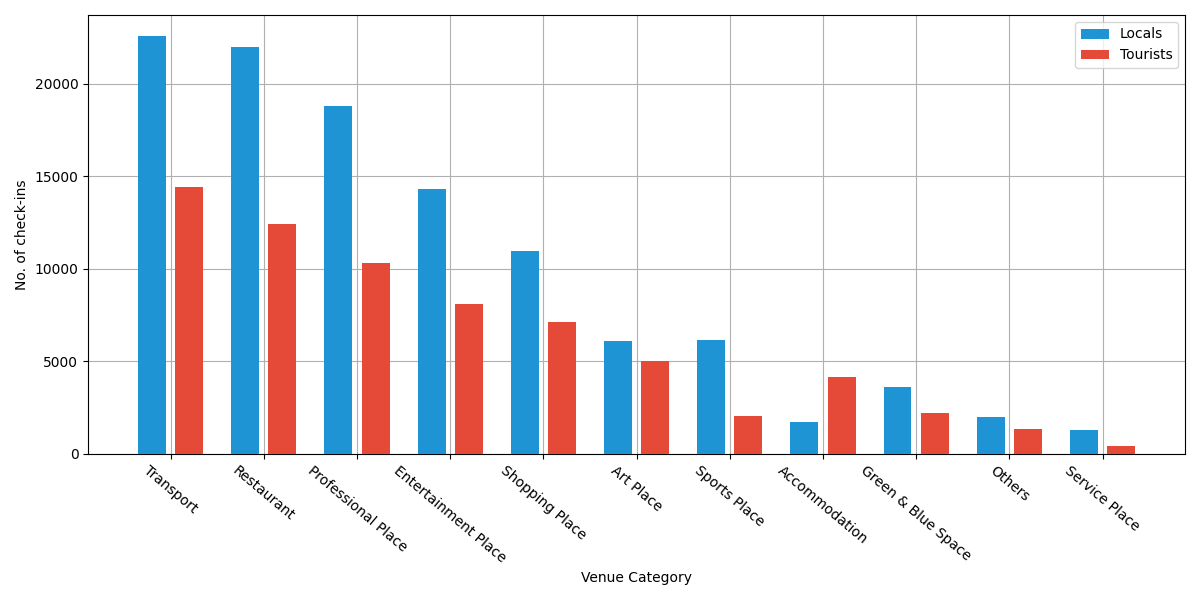
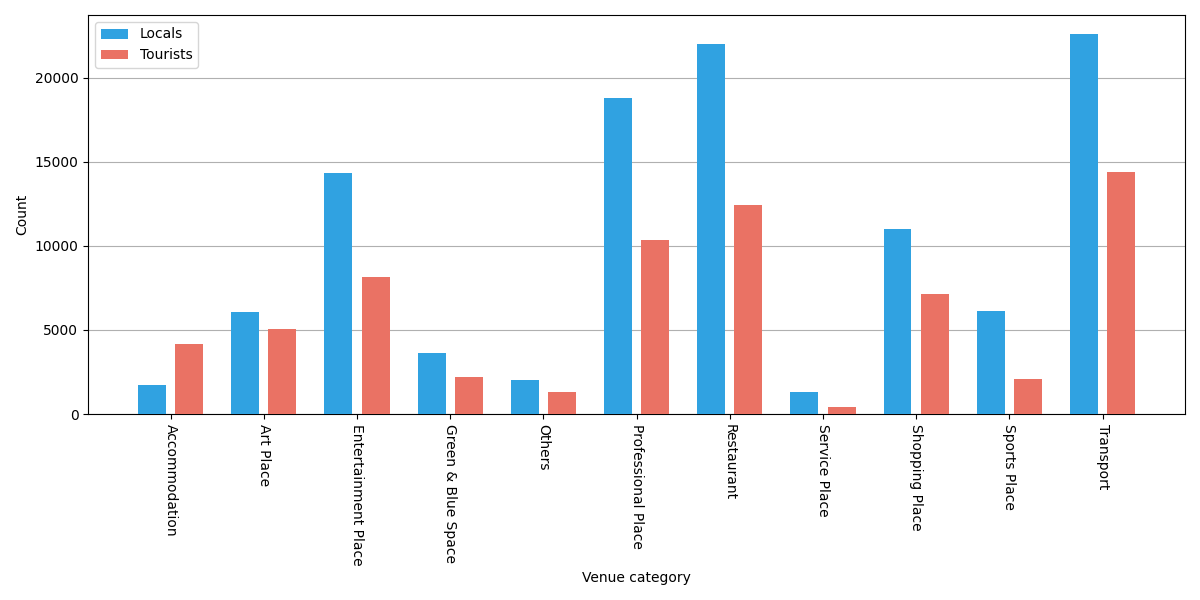
Updates from Overleaf

diff --git a/main.tex b/main.tex
@@ -93,9 +93,9 @@ The trajectory is the chronological representation of people’s movements. Effo
 
 To bridge the gap, this study aims to construct the semantic trajectories of locals and tourists in Greater London with Foursquare check-ins and Flickr tags. Greater London is an English-speaking city that attracts numerous tourists every year. Moreover, there are lots of Foursquare and Flickr users sharing check-ins and photos in Greater London, which lays the foundation for semantic trajectory construction. This study examines two research questions:
 
-\textbf{RQ1: What’s the functionality of the place based on the visit number of locals and tourists?}
+\textbf{RQ1: Which areas are more popular among locals and tourists at different time spans?}
 
-Given the varying functionalities of different places, they tend to attract diverse populations with specific visiting objectives. To investigate the distribution of places that cater to distinct population groups, it is imperative to assess the degree of mixture between locals and tourists in these places \citep{li_analyzing_2018}. This evaluation can identify places that appeal to both locals and tourists, as well as those that primarily attract one group or the other. By combining this evaluation with the semantic attributes of places, the visiting objectives of locals and tourists can also be revealed for different place types.
+Given the varying functionalities of different areas, they tend to attract diverse populations with specific visiting objectives. To investigate the distribution of areas that cater to distinct population groups, it is imperative to assess the degree of mixture between locals and tourists in these places \citep{li_analyzing_2018}. This evaluation can identify areas that mainly appeal to locals or tourists. By combining this evaluation with local knowledge, the visiting objectives of locals and tourists can also be revealed.
 
 \textbf{RQ2: How do locals and tourists perceive the city along their semantic trajectories at different time spans?}
 
@@ -244,17 +244,16 @@ City perception can be investigated at different scales, such as grid-based or \
 % ============================================ ||| Study Area and Data Preprocessing ||| ============================================
 \section{Study Area and Data Preprocessing}
 \subsection{Study Area}
-The study area is located in Greater London (Figure~\ref{fig:london}). As an English-speaking
+The study area is located in Greater London in Great Britain (Figure~\ref{fig:study_area}). As an English-speaking
 city, Greater London covers an area of 1,572 \(km^2\) and has a population of 9.5 million inhabitants. According to tourism statistics of City of London, before the Covid-19 pandemic, Greater London attracted approximately 21 million visitors annually from across the world. Of these, 19.7 million visitors were day trippers, while 1.3 million visitors stayed overnight. The high volume of visitors makes Greater London an ideal location for studying the city perception of both locals and tourists. The boundary of Greater London used in this study was obtained from \href{https://data.london.gov.uk/dataset/statistical-gis-boundary-files-london}{LONDON DATASTORE} website.
 
 \begin{figure}[h!]
 \centering
-\includegraphics[width=1\textwidth]{figures/london.png}
-\caption{\label{fig:london}London boroughs.}
+\includegraphics[width=1\textwidth]{figures/study_area.png}
+\caption{\label{fig:study_area}Study area.}
 \end{figure}
 
 \subsection{Data Preprocssing}
-
 Foursquare data and Flickr data in Greater London from April 3, 2012 to September 16, 2013 were collected with Python 3.9.12 to investigate how people move around the city and how they perceive it.
 
 This study examines the city perceptions of locals and tourists, during daytime and nighttime, as well as on weekdays and weekends. Therefore, it is crucial to differentiate between these two population groups across different time spans. To distinguish between locals and tourists, a combination of user profiles and time intervals was utilized for identification. The user profile served as the primary criterion, with individuals whose hometown or city of residence listed as London in their profiles categorized as locals. In cases where the user profile was unavailable, the time interval between the user's initial and final Foursquare or Flickr posts in Greater London was employed. Users with a time interval exceeding 30 days were classified as locals. Regarding time spans, daytime is defined as 6 am to 6 pm, while the remaining hours are considered nighttime. Weekdays encompass Monday to Friday, while the weekend comprises Saturday and Sunday.
@@ -330,10 +329,10 @@ Time & Population Group & No. of Users & No. of Check-ins \\
 \begin{figure}[h!]
 \centering
 \includegraphics[width=0.7\textwidth]{figures/foursquare_distribution.png}
-\caption{\label{fig:foursquare_distribution}Distribution of Foursquare check-ins of locals (blue) and tourists (red).}
+\caption{\label{fig:foursquare_distribution}Distribution of Foursquare check-ins of locals and tourists.}
 \end{figure}
 
-For venue categories, Foursquare categorizes the place types into ten categories, namely (1) Travel \& Transport, (2) Food, (3) Professional \& Other Places, (4) Outdoors \& Recreation, (5) Shop \& Service, (6) Nightlife Spot, (7) Arts \& Entertainment, (8) College \& University, (9) Event, (10) Residence. Category 9 Event was not contained in the check-ins used in this study, and Category 10 Residence was removed to protect the privacy of users. The number of check-ins for each Foursquare venue category is shown in Table~\ref{tab:foursquare_category}. There are several combined categories in the Foursquare category system, such as Professional \& Other Places and Outdoors \& Recreation, which makes it ambiguous to determine the visiting purposes of individual check-ins. To overcome this limitation and investigate place properties more precisely, this study divided venues into 11 categories by separating the combined categories and defining new ones based on the third-level categories in the Foursquare category system. The number of check-ins for modified venue categories is presented in Table~\ref{tab:modified_category}. In terms of the category distribution among locals and tourists, the categories Transport and Restaurant were the most prevalent among both locals and tourists. However, certain categories showed a higher prevalence among a specific group, for instance, Shopping Place, Art Place, and Accommodation were more welcomed by tourists, whereas Sports Place received a greater number of check-ins from locals (Figure~\ref{fig:foursquare_category_percent}).
+For venue categories, Foursquare categorizes the place types into ten categories, namely (1) Travel \& Transport, (2) Food, (3) Professional \& Other Places, (4) Outdoors \& Recreation, (5) Shop \& Service, (6) Nightlife Spot, (7) Arts \& Entertainment, (8) College \& University, (9) Event, (10) Residence. Category 9 Event was not contained in the check-ins used in this study, and Category 10 Residence was removed to protect the privacy of users. The number of check-ins for each Foursquare venue category is shown in Table~\ref{tab:foursquare_category}. There are several combined categories in the Foursquare category system, such as Professional \& Other Places and Outdoors \& Recreation, which makes it ambiguous to determine the visiting purposes of individual check-ins. To overcome this limitation and investigate place properties more precisely, this study divided venues into 11 categories by separating the combined categories and defining new ones based on the third-level categories in the Foursquare category system. The number of check-ins for modified venue categories is presented in Table~\ref{tab:modified_category}. In terms of the category distribution among locals and tourists, the categories Transport and Restaurant were the most prevalent among both locals and tourists. However, certain categories showed a higher prevalence among a specific group, for instance, Shopping Place, Art Place, and Accommodation were more welcomed by tourists, whereas Sports Place received a greater number of check-ins from locals (Figure~\ref{fig:foursquare_category}).
 
 \begin{table}[h!]
 \centering
@@ -374,16 +373,11 @@ No. & Modified Venue Category & No. of Check-ins & Foursquare Venue Category
 \end{adjustbox}
 \end{table}
 
-% \begin{figure}
-% \centering
-% \includegraphics[width=1\textwidth]{figures/foursquare_category.png}
-% \caption{\label{fig:foursquare_category}Venue categories visited by locals and tourists.}
-% \end{figure}
 
 \begin{figure}[h!]
 \centering
-\includegraphics[width=1\textwidth]{figures/foursquare_category_percent.png}
-\caption{\label{fig:foursquare_category_percent}Percent of venue categories visited by locals and tourists.}
+\includegraphics[width=1\textwidth]{figures/foursquare_category.png}
+\caption{\label{fig:foursquare_category}Number of venue categories visited by locals and tourists.}
 \end{figure}
 
 
@@ -461,7 +455,7 @@ Time & Population Group & No. of Users & No. of Photos & No. of Tags \\
 \begin{figure}[h!]
 \centering
 \includegraphics[width=0.7\textwidth]{figures/flickr_distribution.png}
-\caption{\label{fig:flickr_distribution}Distribution of Flickr photos of locals (blue) and tourists (red).}
+\caption{\label{fig:flickr_distribution}Distribution of Flickr photos of locals and tourists.}
 \end{figure}
 
 \begin{figure}[h!]
@@ -531,8 +525,6 @@ Time & Population Group & No. of Users & No. of Photos & No. of Tags \\
 
 
 % ============================================ ||| Methodology ||| ============================================
-why different time spans (daytime/nighttime, weekday/weekend) are used: places and trajectories are temporally different
-
 \section{Methodology}
 \underline{refer to figure 3 in \cite{cai_mining_2018}}
 \underline{Figure~\ref{fig:flowchart}}
@@ -541,8 +533,41 @@ why different time spans (daytime/nighttime, weekday/weekend) are used: places a
 \includegraphics[width=1\textwidth]{figures/flowchart.png}
 \caption{\label{fig:flowchart}xxx.}
 \end{figure}
-% ============================= || Place Modeling || =============================
-\subsection{Place Modeling}
+% ============================= || Hotspots Detection || =============================
+\subsection{Hotspots Detection}
+
+
+% ====================== | Kernel Density Estimation | ======================
+\subsubsection{Kernel Density Estimation}
+
+
+
+% ====================== | Calculation of Difference Ratio | ======================
+\subsubsection{Calculation of Difference Ratio}
+
+Explain why a comparison should be made, and which approach was applied (formula for Difference ratio)
+
+The index of dissimilarity \(D\) is defined as:
+
+\begin{equation} \label{eq:dissimilarity_index}
+    D = \frac{1}{2}\sum_{i=1}^{N}\bigg|\frac{t_{i}}{T}-\frac{l_{i}}{L}\bigg|
+\end{equation}
+
+where \(t_{i}\) is the number of tourists in the \(i_{th}\) place, and \(T\) is the total number of tourists to the city. Similarly, \(l_{i}\) is the number of locals in the \(i_{th}\) place, and \(L\) is the total number of locals to the city.
+
+the difference ratio can be used to represent the distribution of locals and tourists in each place. 
+
+\begin{equation} \label{eq:diff_ratio}
+    R = \frac{t_{i}}{T}-\frac{l_{i}}{L}
+\end{equation}
+
+In Equation \ref{eq:diff_ratio}
+\(t_{i}\) is the number of tourists in the place \(i\), and \(T\) is the total number of unique tourists visiting the study area. Similarly, \(l_{i}\) is the number of locals in the place \(i\), and \(L\) is the total number of unique locals visiting the study area. This index reflects the relative activity density of locals and tourists. A positive \(R\) value indicates a higher density of tourists visiting this place, whereas a negative \(R\) value indicates a higher density of locals.
+
+top-ranked locations, location importance: \cite{yin_diversified_2011}
+
+% ============================= || Semantic Trajectory Modeling || =============================
+\subsection{Semantic Trajectory Modeling}
 
 % ====================== | Place Construction | ======================
 \subsubsection{Place Construction}
@@ -577,54 +602,8 @@ No. & Place Category & No. of Places & No. of Visits \\ \hline
 \end{tabular}
 \end{table}
 
-% ====================== | Place Popularity Exploration | ======================
-\subsubsection{Place Popularity Exploration}
 
-Difference ratio
-
-Explain why a comparison should be made, and which approach was applied (formula for Difference ratio)
-
-The index of dissimilarity \(D\) is defined as:
-
-\begin{equation} \label{eq:dissimilarity_index}
-    D = \frac{1}{2}\sum_{i=1}^{N}\bigg|\frac{t_{i}}{T}-\frac{l_{i}}{L}\bigg|
-\end{equation}
-
-where \(t_{i}\) is the number of tourists in the \(i_{th}\) place, and \(T\) is the total number of tourists to the city. Similarly, \(l_{i}\) is the number of locals in the \(i_{th}\) place, and \(L\) is the total number of locals to the city.
-
-the difference ratio can be used to represent the distribution of locals and tourists in each place. 
-
-\begin{equation} \label{eq:diff_ratio}
-    R = \frac{t_{i}}{T}-\frac{l_{i}}{L}
-\end{equation}
-
-In Equation \ref{eq:diff_ratio}
-\(t_{i}\) is the number of tourists in the place \(i\), and \(T\) is the total number of unique tourists visiting the study area. Similarly, \(l_{i}\) is the number of locals in the place \(i\), and \(L\) is the total number of unique locals visiting the study area. This index reflects the relative activity density of locals and tourists. A positive \(R\) value indicates a higher density of tourists visiting this place, whereas a negative \(R\) value indicates a higher density of locals.
-
-top-ranked locations, location importance: \cite{yin_diversified_2011}
-% ============================= || Semantic Trajectory Modeling || =============================
-\subsection{Semantic Trajectory Modeling}
-introduce the process
-% ====================== | Semantic Trajectory Construction | ======================
-\subsubsection{Semantic Trajectory Construction}
-definition of semantic trajectory with mathematical expressions
-cite trajminer
-
-trajectory data cleaning
-remove check-ins in trajectories with length less than 3 >>> topic modeling >>> trajectory construction
-
-determine the Begin and the End of the trajectory (they are the first and last positions of the object for this trajectory)
-
-Figure \ref{fig:trajectory_begin_end}
-\begin{figure}
-\centering
-\includegraphics[width=0.75\textwidth]{figures/begin_end.png}
-\caption{\label{fig:trajectory_begin_end}Trajectories extracted from a movement track \citep{parent_semantic_2013}.}
-\end{figure}
-
-
-% ====================== | Semantic Enrichment | ======================
-\subsubsection{Semantic Enrichment through a Place-based approach}
+% Place Dimensions
 
 \underline{add a table of place dimensions, refer to table 6 in \cite{ferrero_mastermovelets_2020}}
 
@@ -647,6 +626,8 @@ Locale:
 sense of place:
 People's emotional relationships with places are subjective and need not be strong and positive \citep{altman_place_1992}. Someone may feel nostalgic about the place he used to visit, even if the place itself is not objectively positive or negative \cite{relph_geographical_1985}. Descriptive words can also be used to describe emotions about a place other than simply positive or negative.
 
+% ====================== | Topic Modeling | ======================
+\subsubsection{Topic Modeling}
 Topic Modeling
 \underline{cite this: https://github.com/polsci/colab-gensim-mallet}
 Foursquare check-ins with no nearby Flickr tags >>>
@@ -671,13 +652,36 @@ In Equation \ref{eq:lda}, the parameter \(\alpha\) is the hyperparameter of the 
 
 Concept talk question: Buffer overlap of Foursquare places, which makes the same Flickr tag belongs to two places
 
-% ============================= || City Perception Investigation || =============================
-\subsection{City Perception Investigation}
+% ====================== | Semantic Trajectory Construction | ======================
+\subsubsection{Semantic Trajectory Construction}
+definition of semantic trajectory with mathematical expressions
+cite trajminer
+
+trajectory data cleaning
+remove check-ins in trajectories with length less than 3 >>> topic modeling >>> trajectory construction
+
+determine the Begin and the End of the trajectory (they are the first and last positions of the object for this trajectory)
+
+Figure \ref{fig:trajectory_begin_end}
+\begin{figure}
+\centering
+\includegraphics[width=0.75\textwidth]{figures/begin_end.png}
+\caption{\label{fig:trajectory_begin_end}Trajectories extracted from a movement track \citep{parent_semantic_2013}.}
+\end{figure}
+
+
+% ============================= || Typical Semantic Trajectory Mining || =============================
+\subsection{Typical Semantic Trajectory Mining}
+introduce the process
+
+% ====================== | Semantic Trajectory Clustering | ======================
+\subsubsection{Semantic Trajectory Clustering}
 introduce the process
 
 why spatial, temporal, and semantic
-% ====================== | Semantic Trajectory Clustering | ======================
-\subsubsection{Semantic Trajectory Clustering}
+
+
+% Semantic Trajectory Clustering
 MSM, MUITAS
 Cite it!
 @misc{petry2019trajminer,
@@ -689,9 +693,10 @@ Cite it!
 
 Agglomerative Clustering, DBSCAN
 
+since dimensions can have different natures, each dimension needs an appropriate distance function and a threshold to match two elements \cite{furtado_multidimensional_2016}.
+
 % ====================== | Sequential Pattern Mining | ======================
 \subsubsection{Sequential Pattern Mining}
-
 GSP: \cite{prado_lima_gsp-py_2020}
 
 \underline{Concept talk question: Locals and tourists have very different trajectories, how to compare them?
@@ -701,24 +706,56 @@ GSP: \cite{prado_lima_gsp-py_2020}
 (2) Make histograms about the main place types and topics within the trajectories, and compare them
 
 https://www.tandfonline.com/doi/full/10.1080/15481603.2021.1908927}
+
+
 \newpage
 
 
-\subsection{Results Evaluation???}
-
-
+% ============================================ ||| Results ||| ============================================
 \section{Results}
-\subsection{Functionalities of Places}
-\subsubsection{Daytime vs. Nighttime}
-\subsubsection{Weekday vs. Weekend}
 
-\subsection{topic modeling}
+% ============================= || Spatiotemporal Patterns of Hotspots || =============================
+\subsection{Spatiotemporal Patterns of Hotspots}
 
-\subsection{semantic trajectories/city perception}
-\subsubsection{Daytime vs. Nighttime}
-\subsubsection{Weekday vs. Weekend}
 
-RQ1: What’s the functionality of the place based on the visit number of locals and tourists?
+% ====================== | Hotspots of Locals and Tourists | ======================
+\subsubsection{Hotspots of Locals and Tourists}
+
+
+% ====================== | Mixture of Locals and Tourists in Hotspots | ======================
+\subsubsection{Mixture of Locals and Tourists in Hotspots}
+
+
+
+% ============================= || Spatiotemporal Patterns of Places || =============================
+\subsection{Spatiotemporal Patterns of Places}
+
+
+% ====================== | Place Distribution | ======================
+\subsubsection{Place Distribution}
+
+
+% ====================== | Place Dimensions | ======================
+\subsubsection{Place Dimensions}
+
+
+
+% ============================= || Spatiotemporal City Perception through Semantic Trajectory || =============================
+\subsection{Spatiotemporal City Perception through Semantic Trajectory}
+
+
+% ====================== | Semantic Trajectory Distribution | ======================
+\subsubsection{Semantic Trajectory Distribution}
+
+
+% ====================== | Semantic Trajectory Dimensions | ======================
+\subsubsection{Semantic Trajectory Dimensions}
+
+
+% ====================== | Typical Semantic Trajectory and City Perception | ======================
+\subsubsection{Typical Semantic Trajectory and City Perception}
+
+RQ1: Which areas are more popular among locals and tourists at different time spans?
 
 For each section,
 include tables on the number of locals and tourists during daytime, nighttime/weekday, weekend
